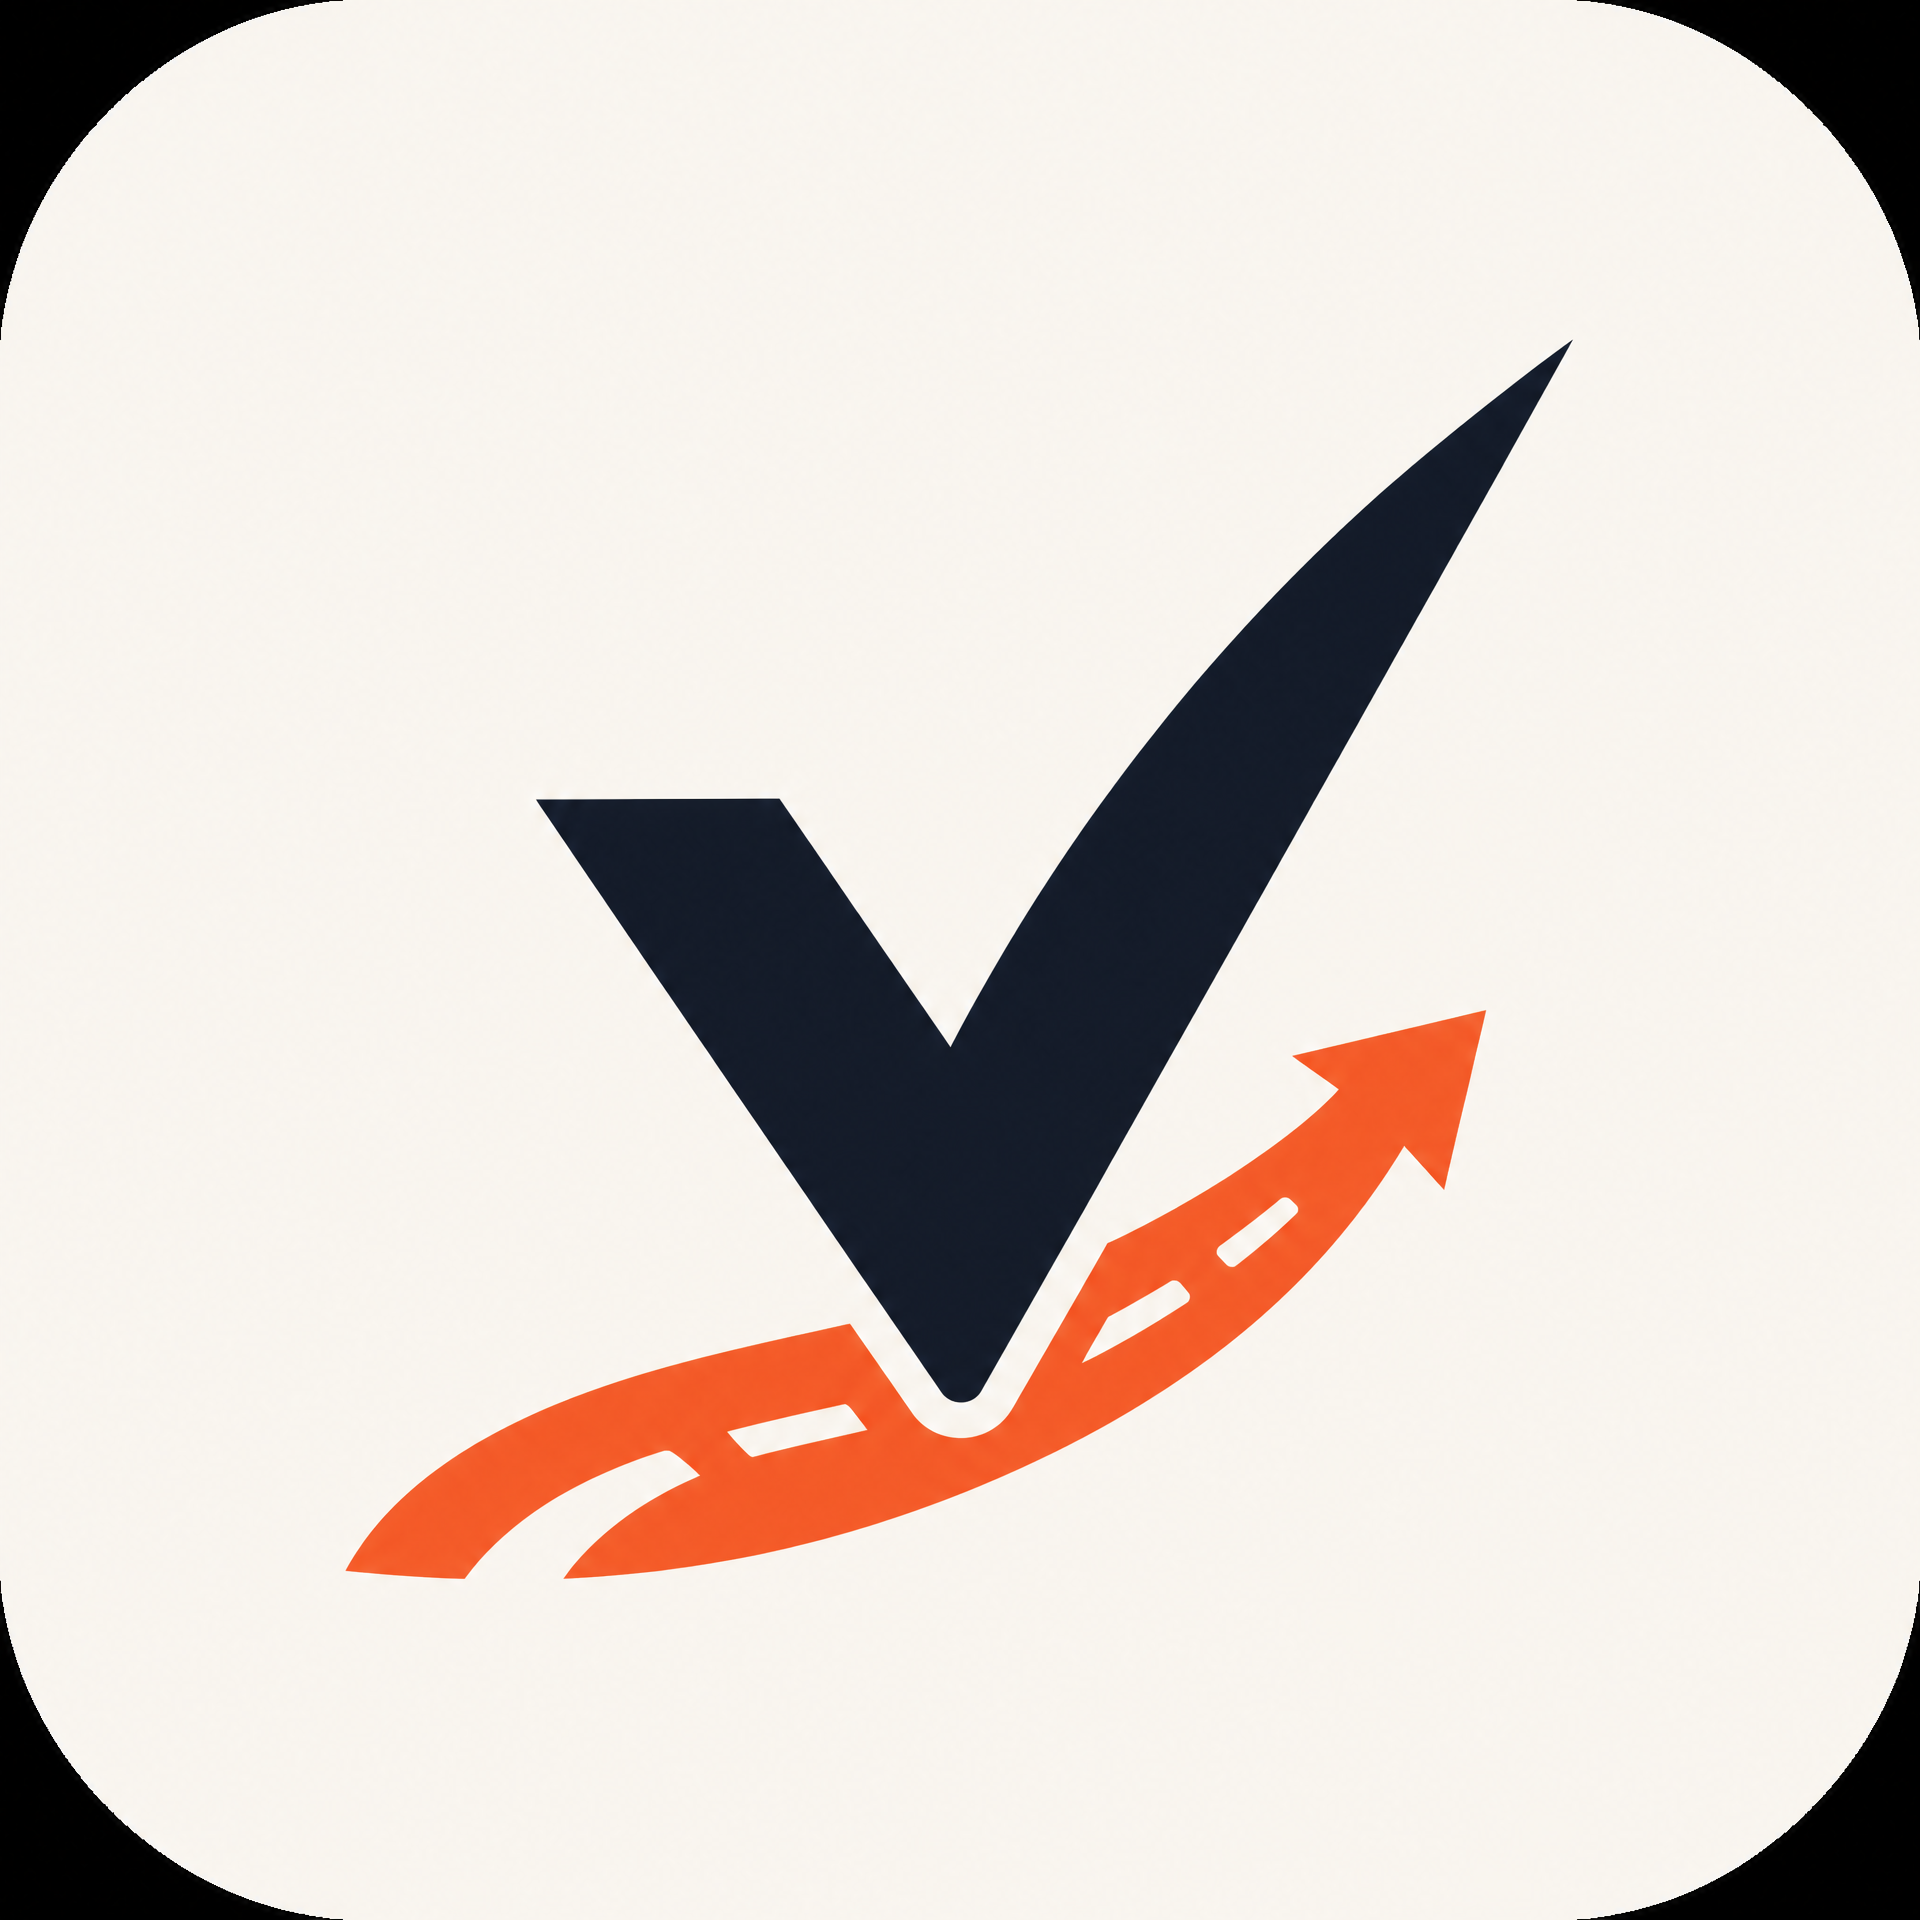
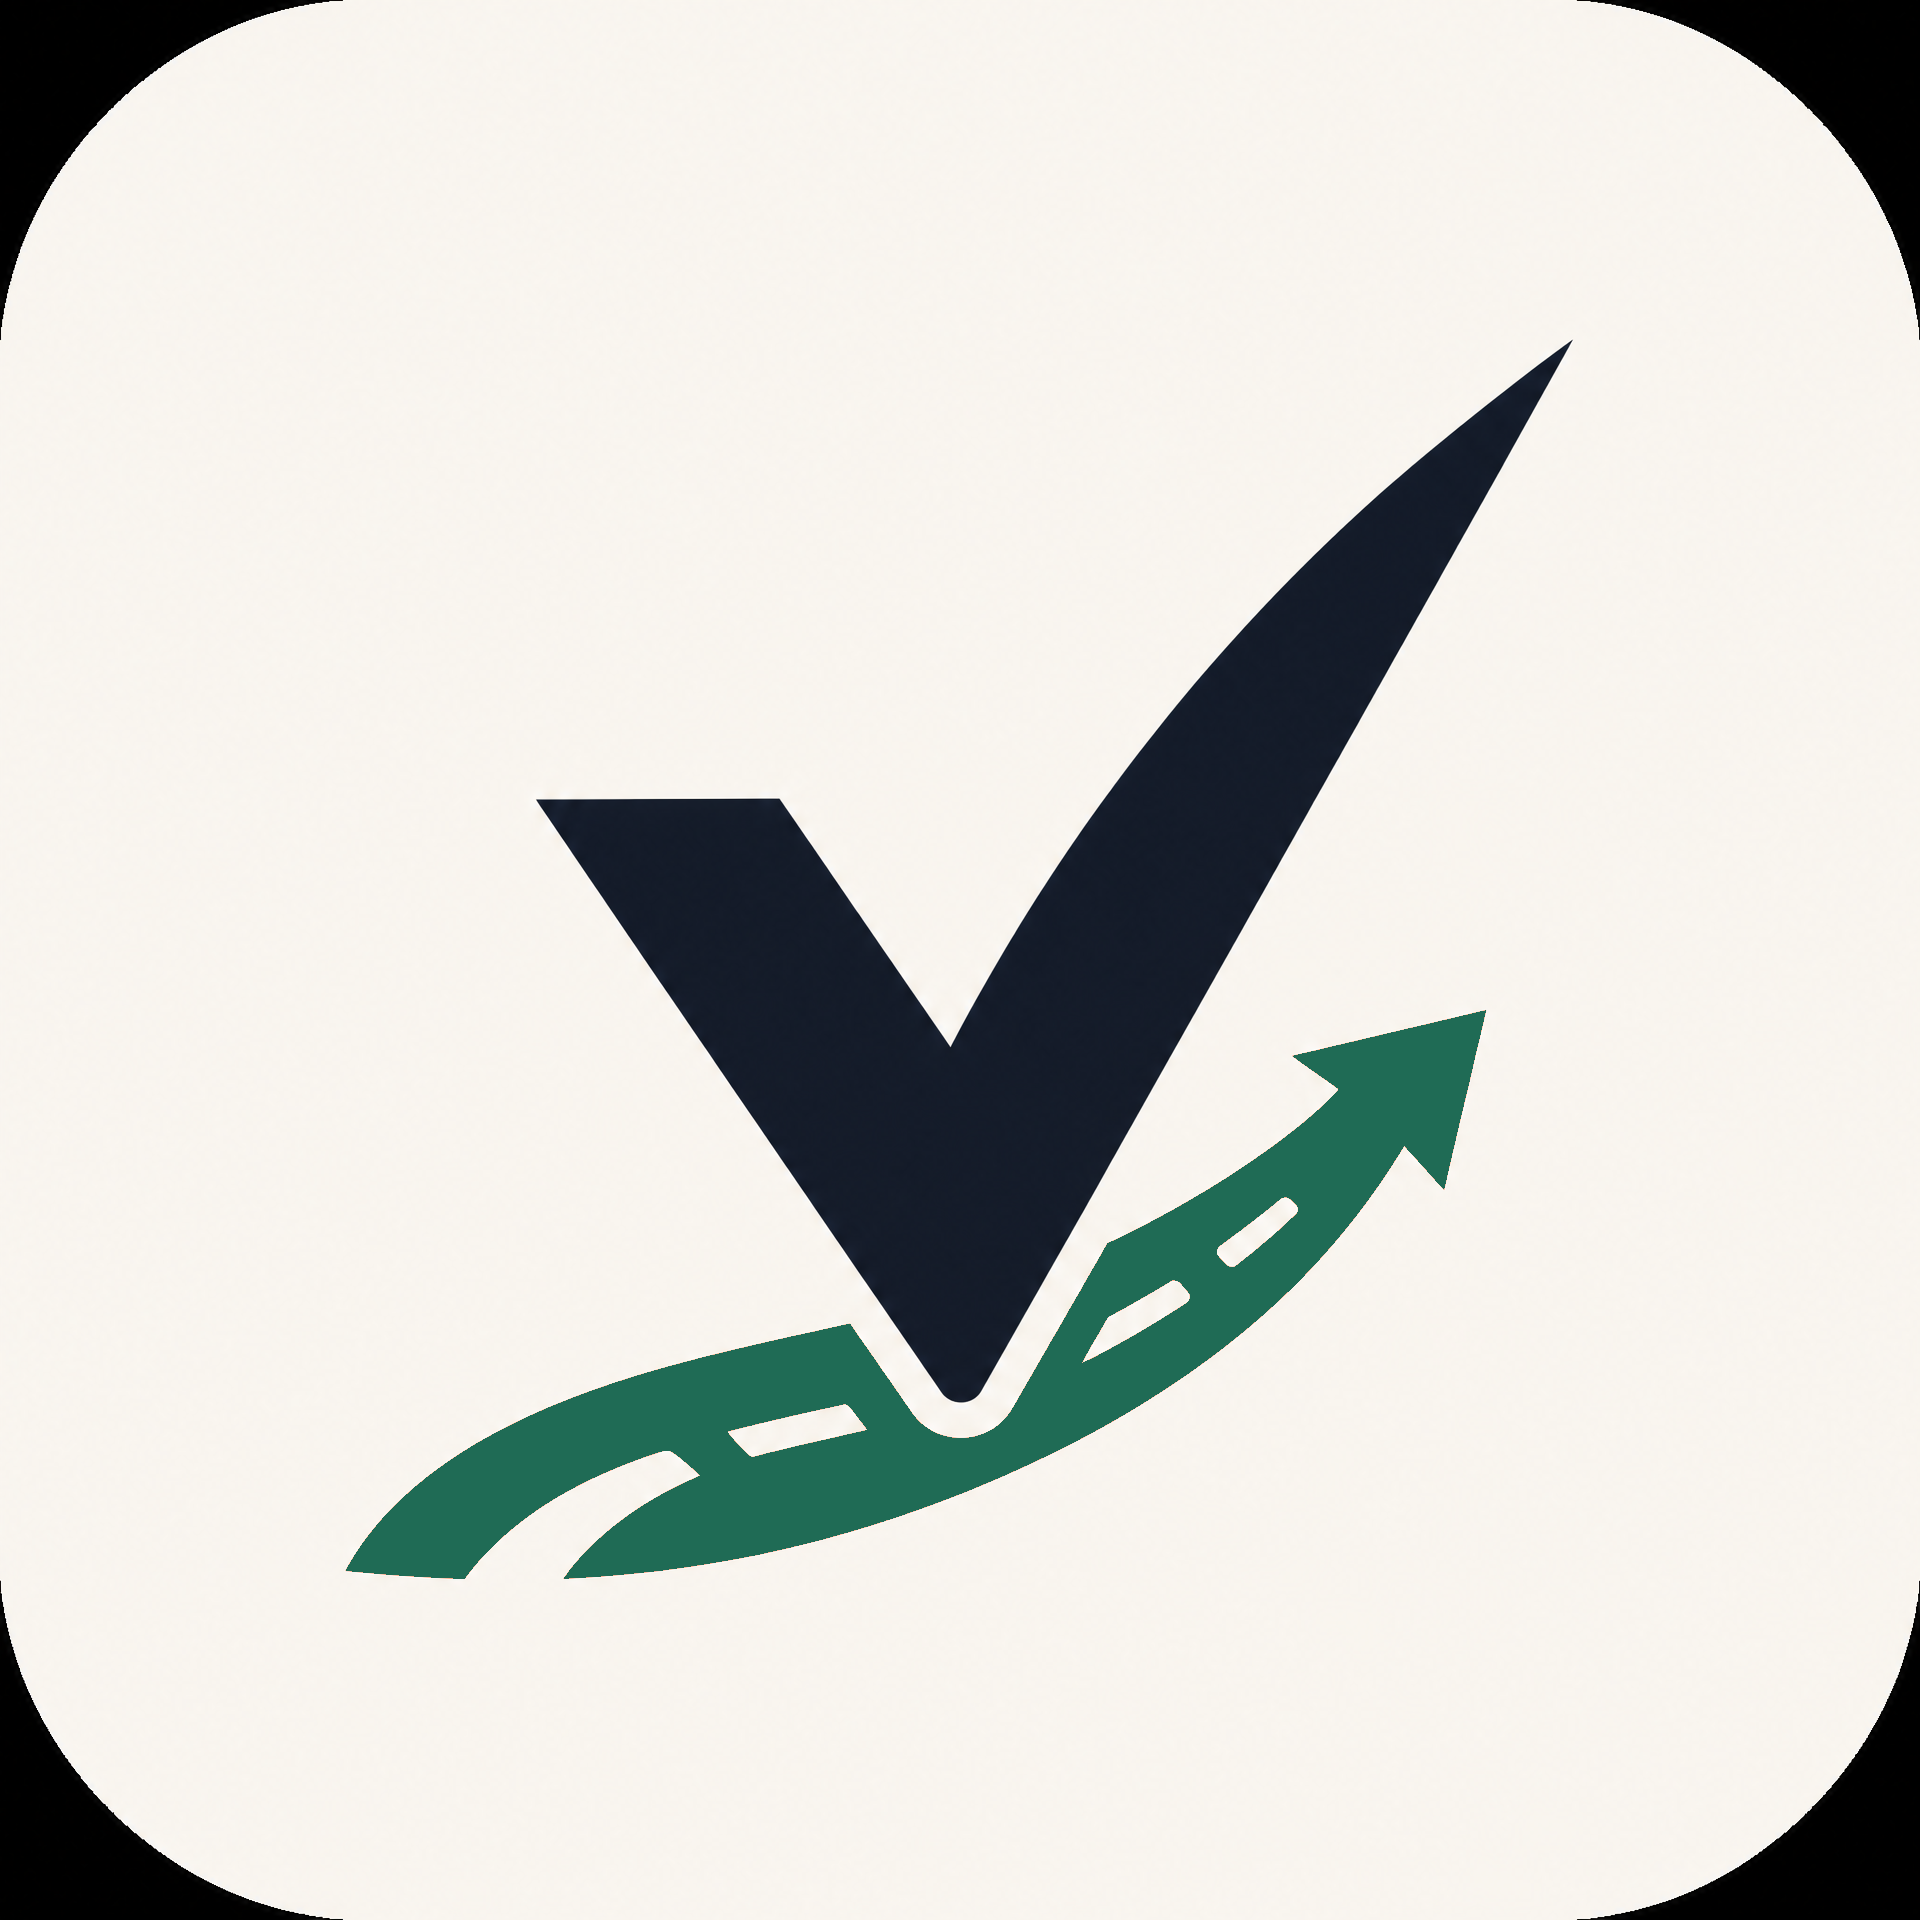
style: apply VahanSync palette to brand accents

Changed region(s): [[0.1875, 0.5312, 0.7812, 0.8438]]

diff --git a/src/styles.css b/src/styles.css
@@ -18,9 +18,9 @@
 
 .brand-mark{object-fit:cover;border-radius:10px}
 .sidebar-brand .brand-mark{width:38px;height:38px;border-radius:12px}
-.landing-hero-copy em{color:#f15b2a;font-style:normal}
-.landing-master-brand{position:relative;overflow:hidden;margin:0;border:1px solid #f0d4c2;border-radius:24px;background:#fffaf3;box-shadow:0 32px 80px rgba(39,50,65,.12);transform:rotate(1deg)}
-.landing-master-brand::after{content:"";position:absolute;right:-80px;bottom:-90px;width:190px;height:190px;border-radius:50%;background:rgba(242,107,56,.08)}
+.landing-hero-copy em{color:var(--green);font-style:normal}
+.landing-master-brand{position:relative;overflow:hidden;margin:0;border:1px solid #cde4d6;border-radius:24px;background:#f5f7f4;box-shadow:0 32px 80px rgba(35,55,48,.12);transform:rotate(1deg)}
+.landing-master-brand::after{content:"";position:absolute;right:-80px;bottom:-90px;width:190px;height:190px;border-radius:50%;background:rgba(31,107,85,.08)}
 .landing-master-brand img{display:block;width:100%;height:auto;mix-blend-mode:multiply}
 .full-state .brand-mark{width:48px;height:48px;border-radius:14px}
 @media(max-width:800px){.landing-master-brand{transform:none}.landing-master-brand img{min-height:290px;object-fit:cover}}
